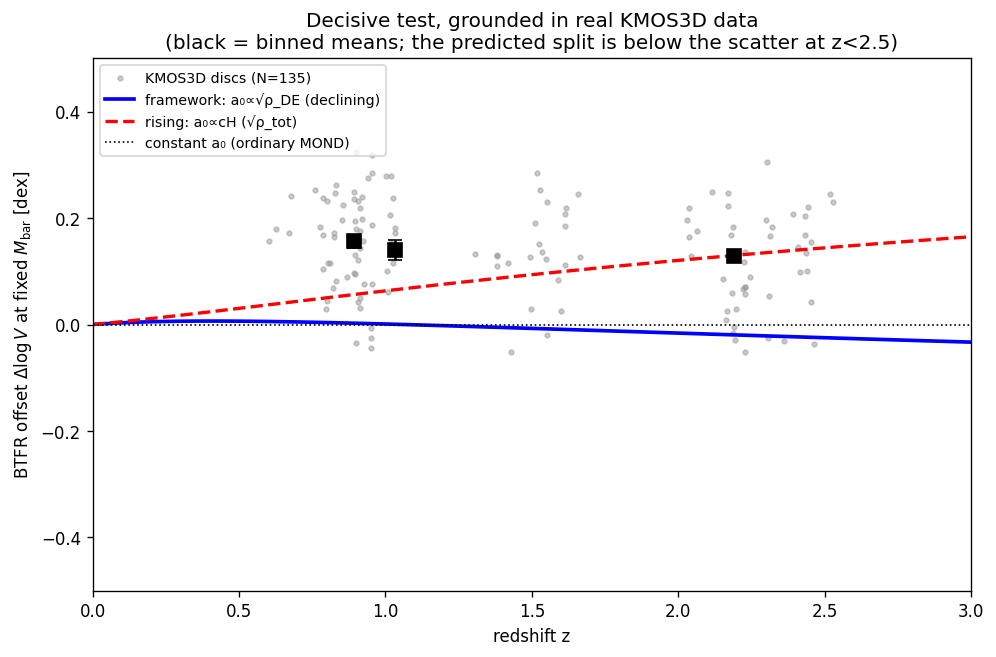
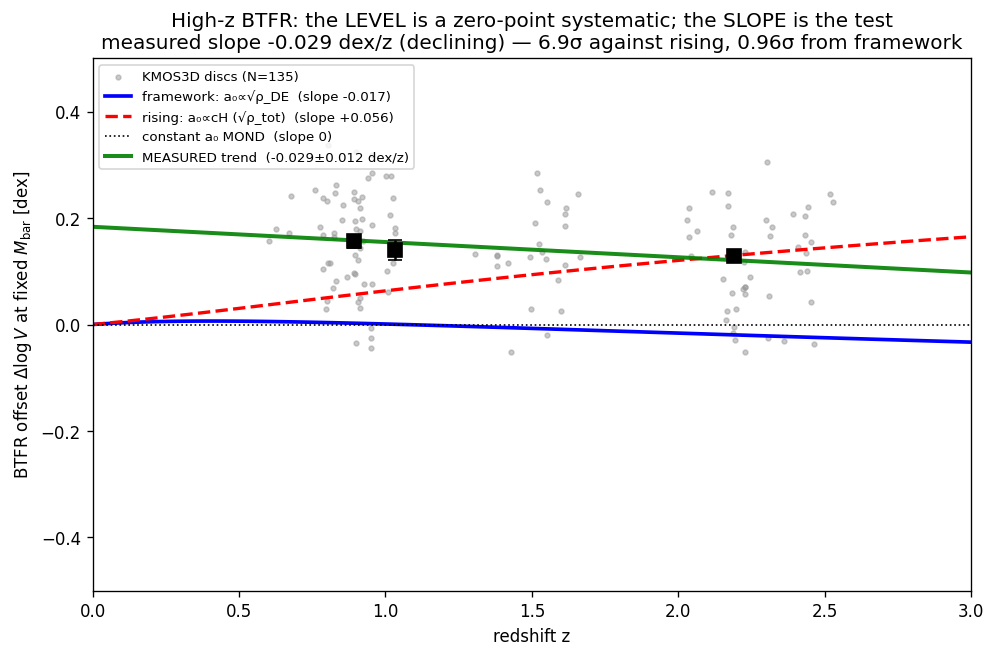
STANDING.md + CRISPY_FRIED_CHICKEN_RECIPE.md: the CD26-4/CD26-5 checkpoint entries and the recipe amendment from the same session (uncommitted since 2026-09-26 22:43), committed unchanged at the author's request; real_research/figures/ground_highz_btfr_realdata.png regenerated by its committed scrip

diff --git a/qwen_claude_field_theory/closure_2026/CRISPY_FRIED_CHICKEN_RECIPE.md b/qwen_claude_field_theory/closure_2026/CRISPY_FRIED_CHICKEN_RECIPE.md
@@ -67,6 +67,265 @@ exponential target" wording of any 2026-09-26 amendment written before them.
   - It is not derivable in this action class ([kappa_closure](../../kappa_closure/README.md)
     k01–k03).
 
+**Reciprocal-vacuum amendment — 2026-09-26, CD26-5.**
+The [new candidate and review](../../real_research/breakthrough_review_2026_09_26/README.md)
+replace the PQ vacuum ingredients, for CA5-GNC-R only, by
+`V0 F(t)` outside the excitation perspective, where
+`F(t)=1+(t+1/t-2)^2`, `t=1+Z-<Z>_h>0`.
+This keeps a positive convex boundary barrier while setting
+`F'(1)=F''(1)=0`; the prior `zeta=4/ell-1` tuning is absent.
+The new action has positive vacuum scalar kinetic/restoring coefficients
+for all finite nonzero modes in its stated domain, a positive occupied-FRW
+kinetic Schur complement, and a smooth positive fixed-data Z solve.
+Keep the complete occupied spatial matrix and nonlinear inhomogeneous
+evolution as separate open gates. The exact global filtered-MOND target,
+full constraints/PPN and observed vacuum magnitude also remain open.
+The new transport bounds concern linear transverse fields on an expanding
+pump and do not certify halo clearing. V0 is an input vacuum tension.
+All thirteen requirements and the author's decisions above remain intact.
+
+**Common-action construction amendment — 2026-09-26, CD26-4.**
+The [common-action checkpoint](../../real_research/common_action_2026_09_26/README.md)
+adds explicit candidate ingredients and records their costs. It preserves
+the author's decisions above and all thirteen requirements; it does not
+declare the complete recipe satisfied.
+
+- **Vary the source and its zero mode together.** On compact leaves use the
+  proper-volume projection in the carrier coupling and retain the resulting
+  mean stress and clock terms. A purely spatial unprojected auxiliary cannot
+  absorb an everywhere positive homogeneous source. Distinguish the lapse
+  density from the auxiliary source whenever the coupling changes.
+- **Use the Newton-normalized host and test the switching terms.** The
+  normalized alpha sector removes the old finite-alpha frozen sign crossing.
+  A convex activation energy controls the fixed-leaf auxiliary solve, but a
+  weighted-Laplacian trigger has an additional lapse instability. The new
+  intrinsic-Laplacian trigger plus fixed compensator repairs the calculated
+  scalar principal block, with an explicitly changed inactive force law.
+  Its global filtered static law is also changed: the heat kernel samples
+  off/interface regions. Exact requirement 1 remains unresolved, and no old
+  lensing, shear or moving-source pass transfers to this new gate.
+- **Check canonical reduction, not positivity before elimination alone.**
+  An exponential carrier has positive local kinetic coefficients and a unique
+  canonical auxiliary solve, yet a two-cell control has negative reduced
+  momentum curvature. The explicit perspective replacement
+  `Ld=t Kd-Wd/t`, `t=1+Z-<Z>_h>0`, repairs that joint canonical convexity
+  defect. It changes the source to `sigma=rho/t`; its nonlinear and vacuum
+  response must be derived from this replacement.
+- **Retain the positive floor and its physical price.** Adding `V0>0` to the
+  carrier potential supplies a proved positive-domain barrier for the fixed
+  smooth canonical constraint. Homogeneous `t=1` gives pressure `-V0` and
+  energy density `V0`: a precise role for vacuum tension, with an uncomputed
+  magnitude. Homogeneous subtraction does not remove its perturbations.
+  The newest variant sets bare Lambda to zero, keeps `G_cosm/G_N=cN`, and
+  treats any acceleration–tension relation as an explicit input.
+- **Retain the derived vacuum-stiffness repair in that same action.** The
+  actual expanding-vacuum calculation exposes an infrared scalar problem in
+  the perspective-floor trial. The further term `-V0 zeta(t-1)^2`, outside
+  `Wd/t`, with `zeta=4/ell-1`, repairs its scalar kinetic/restoring test for
+  all finite nonzero wavelengths in the stated parameter window. It also
+  preserves the fixed-data positive-lapse theorem. This latest CA4-GNC-PQ
+  variant still needs the occupied-carrier, nonlinear and PPN calculations;
+  positive linear vacuum modes are not a global theory certificate.
+- **Use derived transport with all five real fields counted.** The positive
+  square potential for two complex fields and one real field derives
+  reversible charge conversion and an outgoing flux. The neutral-trigger
+  trial did not improve clearing; the new packet clears only about `9.75e-5`
+  of its initial region charge. Neither is a calibrated cosmological
+  evacuation law. A slow-wave example is a separate parameter realization.
+- **State global results at their proved scope.** Global carrier evolution
+  is proved analytically on fixed flat/static geometry; the positive-floor
+  auxiliary theorem holds for fixed smooth canonical data. The same PQ
+  action also has a nonlinear future-global homogeneous expanding branch,
+  approaching de Sitter under positive-mass/floor assumptions, with no
+  ordinary matter in that theorem. Full spatially inhomogeneous evolution,
+  including the lapse, foliation and all constraints, remains open.
+  Lean certifies the listed algebraic bridges, not those continuum proofs
+  or the full theory. The host scalar and five carrier scalars remain
+  separately counted; the full Dirac classification is still required.
+
+**Inverse-relationship amendment — 2026-09-26, CD26-3.**
+The [inverse audit](../../real_research/dark_energy_inverse_2026_09_26/README.md)
+keeps the author's filtered ν_mono and criterion-B decision. Its ingredients
+clarify which quantities the theory can identify; they do not add a new
+dark-matter particle or change the thirteen requirements.
+
+- **Separate pressure from energy density.** Write Pi=-p, with Pi and energy
+  density epsilon in J/m³. The proposed pressure link is a0²=κ²G_N Pi;
+  the density link is a0²=κ²G_N epsilon. They coincide only for p=-epsilon.
+  Specify and derive the chosen link from the common action, or label it as
+  an allowed constitutive input. For a separately conserved component,
+  constant Pi permits epsilon=Pi+D/a³. Constant a0 therefore does not fix
+  the whole sector's equation of state or remove its independent charge/
+  density boundary condition.
+- **Add the inverse pressure test.** On a flat Einstein-form background
+  with constant κ and G_cosm/G_N and negligible ordinary pressure, define
+  Q=2 Hdot+3H². The pressure link predicts
+  [a0(z)/a0(0)]² Q(0)/Q(z)=1, for a0(0)≠0 and Q(z)>0.
+  A conserved pressureless contribution cancels
+  exactly. Derive the background/action bridge and include curvature,
+  ordinary pressure and data covariance before calling this an empirical pass.
+- **Calibrate independent quantities once.** Keep g=G_cosm/G_N explicit:
+  Z_H²=8πg/(3κ²), Lambda_geom=8πg a0²/(κ²c⁴), and
+  H_vac=H_total sqrt(Omega_vac). The displayed g=1 vacuum dictionary above
+  cannot be exported to an action with unequal Newton and cosmological
+  couplings. Distinguish geometric, Newton-normalized and bare Lambda.
+  A κ estimate already calibrated with an assumed vacuum density returns
+  that same density when inverted; it is not a second measurement.
+- **Keep gate inverses on their actual branch.** The phantom-inclusive
+  DE1 edge and the matter-only lower switch identified in DE4 require
+  different source profiles. Preserve background subtraction. Several
+  gate epochs identify an exponent only with independent fraction history;
+  otherwise they determine its product with the logarithm of that history.
+- **Retain vacuum offset and clock excitation separately.** The canonical
+  polar clock's rho+p removes its constant vacuum offset. Sound/dispersion
+  identifies local potential derivatives on the stated circular branch,
+  not that offset. Recovering the offset additionally needs separated
+  stress and a specified potential; the clock's source and scalar pairs
+  still belong in the full action and field count.
+- **Make the lapse inverse a consistency test.** Positive N gives
+  A/b=-4 Delta sqrt(N)/sqrt(N). With source, geometry, proper expansion
+  and action coefficients calibrated, the reconstructed vacuum coefficient
+  must be spatially constant. Without that calibration, exact families
+  admit the same lapse, matter and expansion with different vacuum constants.
+- **Use names at the established scope.** “Cosmic tension” denotes Pi=-p;
+  use “effective cosmic tension” if it is reconstructed geometric stress.
+  “Vacuum tension” requires an identified vacuum contribution. These are
+  provisional descriptions, not a microscopic explanation or a renaming
+  of every dark-sector contribution.
+
+The checkpoint records exact calculations, inverse counterexamples and
+scoped Lean certificates. It does not certify the full field theory or a
+new observational fit. Common-action closure and the physical origin of
+the vacuum magnitude remain open; the specification's permission to retain
+an explicitly stated acceleration-scale input remains intact.
+
+**Constructive continuation — 2026-09-26, CD26-2.**
+The [continued construction](../../real_research/closure_push_2026_09_26/README.md)
+records the user-decision revision above, which entered the shared repository
+during its calculations. The operative target is now filtered ν_mono with
+criterion B. Earlier exponential/metric-cone statements below remain historical
+branch records; they do not override that decision.
+
+- **Advance the cosmological construction:** a new constant active potential
+  and gradient coefficient B=b exp(S) give a local linear physical metric/fluid
+  system, with positive nonzero-mode kinetic matrix under stated conditions.
+  These are explicit changes to the action. They must be connected to the
+  operative static sector by a varied transition before claiming one theory.
+- **Retain and solve the homogeneous lapse condition:** y=exp(S/2) turns the
+  new nonlinear lapse equation into (-4bΔ-A)y=0. Explicit positive-density,
+  expanding, inhomogeneous initial data solve the constraint. The positive
+  ground-state factorization controls the normalized lapse shape; the global
+  constraint and full field count cannot be discarded. A conditional canonical
+  reduction to H_red=-c lambda0 preserves that global condition; its full-action
+  and continuum hypotheses still need to be verified.
+- **Use the actual outer heat filter at zero field:** it makes the fixed-leaf
+  force spatially Lipschitz even where the inner acceleration vanishes.
+  This does not establish Lipschitz dependence on source data or full coupled
+  well-posedness. Keep that distinction in the requirement-9 calculation.
+- **Improve the exponential branch without borrowing its passes:** the
+  symmetric auxiliary penalty is globally C² and preserves its demonstrated
+  static branch. Deriving G_N rather than setting it equal to G_bare opens a
+  positive principal window, but the tested family fails its derived
+  preferred-frame check. Neither conclusion automatically applies to ν_mono.
+- **Keep clock stress in the common-action source:** a charged amplitude/phase
+  clock has a proved homogeneous timelike branch, but also adds a nonzero
+  static density and pressure response. Vacuum subtraction cannot remove that
+  response. Its two scalar pairs must remain explicitly counted.
+
+The checkpoint contains scoped Lean certificates and reproducible calculations.
+The new potential's magnitude and the a0–Λ coefficient remain declared inputs.
+Full nonlinear evolution, the common static/cosmological action, PPN and
+empirical closure remain **OPEN**.
+
+**Constructive amendment — 2026-09-26, CD26-1: all-door calculations.**
+The [new calculation campaign](../../real_research/closure_doors_2026_09_26/README.md)
+extends the source audit below with direct action constructions and controlled
+continuations. Keep the thirteen requirements unchanged and use these updated
+ingredients at their demonstrated scope:
+
+- A directly integrated acceleration primitive gives exact **general-source
+  exponential AQUAL**, with both static metric potentials varied. Its displayed
+  two-scalar realization is healthy on a bounded low-acceleration principal
+  branch; global health, field classification and PPN remain open.
+- The original geometric heat filter does **not** contract the lapse-weighted
+  norm for arbitrary positive lapse. Retain its proved sufficient contrast bound,
+  or explicitly change to the weighted operator ΔN=N⁻¹Di(NDi). The latter repairs
+  fixed-geometry auxiliary existence/uniqueness, and must be varied with N.
+- A vacuum-regulated C∞ gate supplies a global domain and exact plateaus. Its
+  actual scalar variation creates a curvature-gradient obligation. A concave
+  repair and a local positive-energy causal completion are explicit separate
+  constructions; their field counts and static effects must be reconciled.
+- A healthy wave pole alone is insufficient: the regular rank-one trace-mixing
+  family fails the independently derived conserved-source tidal response at
+  high acceleration. New work must change that structure, not retune its weights.
+- Fisher capillarity has a **local same-canonical-pair** wave representation.
+  Its nodes and phase gradients need a global clock treatment; wave notation
+  neither proves a new particle species nor supplies causal gravity by itself.
+- Vacuum origin, its magnitude, the gate and κ remain separate questions.
+  Requirement 13 permits a declared a0–Λ relation; no free coupling ratio or
+  allowed vacuum counterterm is to be called a first-principles prediction.
+
+The campaign retains exact calculations, numerical refinement, independent
+reviews and scoped Lean certificates. These ingredients have not yet passed
+as one common action. The target remains **OPEN**.
+
+**Dated amendment — 2026-09-26: ingredient and evidence reconciliation.**
+The thirteen-requirement spec remains the success contract. The recent C-H/K,
+vacuum-gate and carrier calculations are useful branch research; they do not
+replace the exact exponential target or certify one completed action. The
+[source audit](../../real_research/closure_resume_2026_09_26/recipe_audit.md)
+records the equations, input revisions and precise limits. Earlier checkpoints
+below remain historical records, including their original dates and labels.
+
+- **Keep the exact kernel distinct from approximate alternatives.** The original
+  [C-H action](g03_covariant_action_2026/ACTION.md) already identifies itself as
+  screened T-B, not strict exponential AQUAL T-A. [L340](../../real_research/g03_audit_2026/L340_filtered_khronon_completion.py)
+  further replaces its kernel by `nu_mono`, numerically built from `nu_RAR`.
+  Similar galaxy fits do not establish the exact equation in requirement 1.
+  On its spherical branch, write `x=g/a0`, `t=g_N/a0` and `h=g-g_N`; then
+  `t=x(1-exp(-x))`, `h/a0=x exp(-x)` and
+  `d(h/a0)/dt=(1-x)/(exp(x)+x-1)<0` for `x>1`.
+  Thus L340's positive-longitudinal-response construction cannot simply inherit
+  that kernel. Its 243 failed alternative parameter cells are a bounded scan,
+  not a theorem excluding every possible momentum channel or action.
+- **Count the clock before assigning its category.** L340 adds
+  `alpha_c a_mu a^mu - c_2 K^2` and explicitly obtains an extra scalar mode in
+  its reduced block. Calling it a clock does not establish the spec's exception
+  for a genuine matter/clock scalar. The full canonical classification,
+  independent initial data and health must still be derived for the final action.
+  Particle-free does not mean free of independent field initial data or charges.
+- **Retain the no-dark-matter-particle constraint.** A Newtonian-inferred phantom
+  density is a description of a derived metric response. It does not supply an
+  independent cosmological density or prove equality to a field's Hilbert stress.
+  L353/L361 explicitly introduce `rho_d`; a wave/condensate interpretation must
+  state its action, initial data and observable force law before use. Numerical
+  particles used to sample a continuum are not, by themselves, a particle ontology.
+- **Do not promote partial PPN or strong-coupling checks.**
+  [KM3](../../real_research/khronon_momentum_2026/KM3_chk_one_pn.py)
+  derives static `beta=gamma=1` in the reduced khronometric sector; its remaining
+  zero-parameter and filtered-remainder checks include documentary inputs.
+  [XC1](../../real_research/extra_crispy_2026/XC1_strong_coupling_chk.py)
+  supplies useful cubic/quartic decoupling power counting, while explicitly
+  omitting filter metric/foliation vertices and a full curved-background analysis.
+  G7/G8 remain conditional at full-action scope. XC1 also reports a scalar speed
+  above the physical metric light cone; preferred-foliation causality alone is
+  not a pass of requirement 7 without resolving that requirement explicitly.
+- **Keep vacuum origin, scale normalization and environmental gate separate.**
+  In C-H, `Lambda` and `a0` are independent inputs. A constant vacuum term has
+  `w=-1`; the action must additionally explain its magnitude and any relation
+  to `a0` before those are called derived. Four-form promotion is a distinct
+  action proposal, and a relation structural within that proposal does not select
+  its free dimensionless ratio. The L359 power and threshold are chosen inputs;
+  L361 varies its nonrelativistic fields with the gate prescribed. A gate window
+  or edge-law identity does not complete their covariant, conserved, stable
+  combination. Never pool passes from different gate cells or action revisions.
+
+**Next constructive obligation:** use one explicit particle-free action and one
+kernel definition; derive its scalar constraint/initial-data structure, both
+physical metric responses, and the gate's variation together. Preserve the
+exponential branch as the target and label any alternative as a separate branch.
+The canonical target is **OPEN**, with the bounded results above retained.
+
 **User decision — 2026-09-26, later the same day (the author, answering the cross-thread review): both branches, every switch variable, PAPER34 v2 after the re-score.**
 These add to the decisions above and change none of them.
 

diff --git a/STANDING.md b/STANDING.md
@@ -12,6 +12,54 @@ model (MS3's machinery, AT4) cosmic shear fails at every KiDS-safe region cap fo
 cleared (MS3). This trigger's slow kicks leave them, and a fast kick hollows group cores (Harvey). It is a
 construction; the carrier's mass is still required.
 
+**Reciprocal-vacuum checkpoint — 2026-09-26, CD26-5.**
+The [new review and derivations](real_research/breakthrough_review_2026_09_26/README.md)
+define a distinct CA5-GNC-R candidate: `Ld=t K-Wexc/t-V0[1+(t+1/t-2)^2]`.
+The reciprocal convex barrier removes the previous vacuum susceptibility
+tuning and has a unique positive fixed-data Z solve. The actual occupied
+homogeneous background now has a positive reduced kinetic matrix for every
+finite nonzero mode; this does not establish its finite-wavelength spatial
+stability. Joint auxiliary and expanding transport results retain their
+stated finite-resolution/restricted-background scopes. Full closure and
+the origin/magnitude of V0 remain **OPEN**. This is the latest candidate,
+not a retroactive change to the CD26-4 actions below.
+
+**Common-action construction checkpoint — 2026-09-26, CD26-4.**
+The [new construction and evidence](real_research/common_action_2026_09_26/README.md)
+retains filtered nu_mono, criterion B and the thirteen-requirement target.
+It writes a common gravity/clock/heat/carrier action and a perspective-carrier
+variant with a positive vacuum floor. New results include a smooth positive
+fixed-data auxiliary theorem, scoped principal and canonical positivity,
+global field evolution on fixed static geometry, and action-derived charged
+transport. The gate changes the exact global static target; the vacuum floor
+changes source response; full coupled evolution and same-action empirical
+closure remain **OPEN**. V0 has a derived role as vacuum tension and a
+carrier-lapse barrier, but its magnitude is not derived. The current recipe
+links this checkpoint; earlier passes remain scoped to their own actions.
+The latest PQ vacuum-stiffness term also passes an actual de Sitter scalar
+kinetic/restoring test at every finite nonzero wavenumber in an explicit
+window. Occupied-carrier spatial perturbations and nonlinear inhomogeneous
+continuation remain open.
+The same action's homogeneous occupied-carrier expanding branch is now
+proved future-global and asymptotically de Sitter under positive-mass/floor
+assumptions. The open claims concern its spatial perturbations and general
+inhomogeneous evolution; the homogeneous theorem is not promoted to them.
+
+**Bounded peer-review update — 2026-09-26.** The newest XC1/XC2 and
+L380/L381/L386/L387 calculations have an
+[independent review with reproducible checks](real_research/peer_review_2026_09_26/README.md).
+This continues the existing September 26 closure work. The user requested
+both exact exponential laws be explored as separate branches; neither is
+identical to the completion's `nu_mono`. New findings: the PM-to-Harvey chain
+silently changes its active gate and source/force operator; XC2's global
+weighted-convexity and zero-field arguments fail on admitted configurations;
+and mixed heat variations remain outside XC1's full strong-coupling claim.
+The fixed-background monotone leaf problem and restricted khronon power
+counting survive. Full gravity closure is **OPEN**. This update qualifies
+those specific claims below and in newer lane summaries; it does not erase
+the underlying calculations or refute the framework as a whole. Next work
+is specified in the [continuation work order](real_research/peer_review_2026_09_26/NEXT_CALCULATIONS.md).
+
 **de Sitter–Unruh modified inertia — where the programme actually stands**
 Last updated **2026-09-22** (rev. 9 block at the top, then rev. 8 of 2026-09-06, rev. 7 of 2026-09-04 and rev. 6 of 2026-09-02; body below them is the rev. 5 record of 2026-08-03). Maintained as the single entry point: what is claimed, what is earned,
 what is postulated, what is live, and what is closed. If a statement anywhere in this repository
